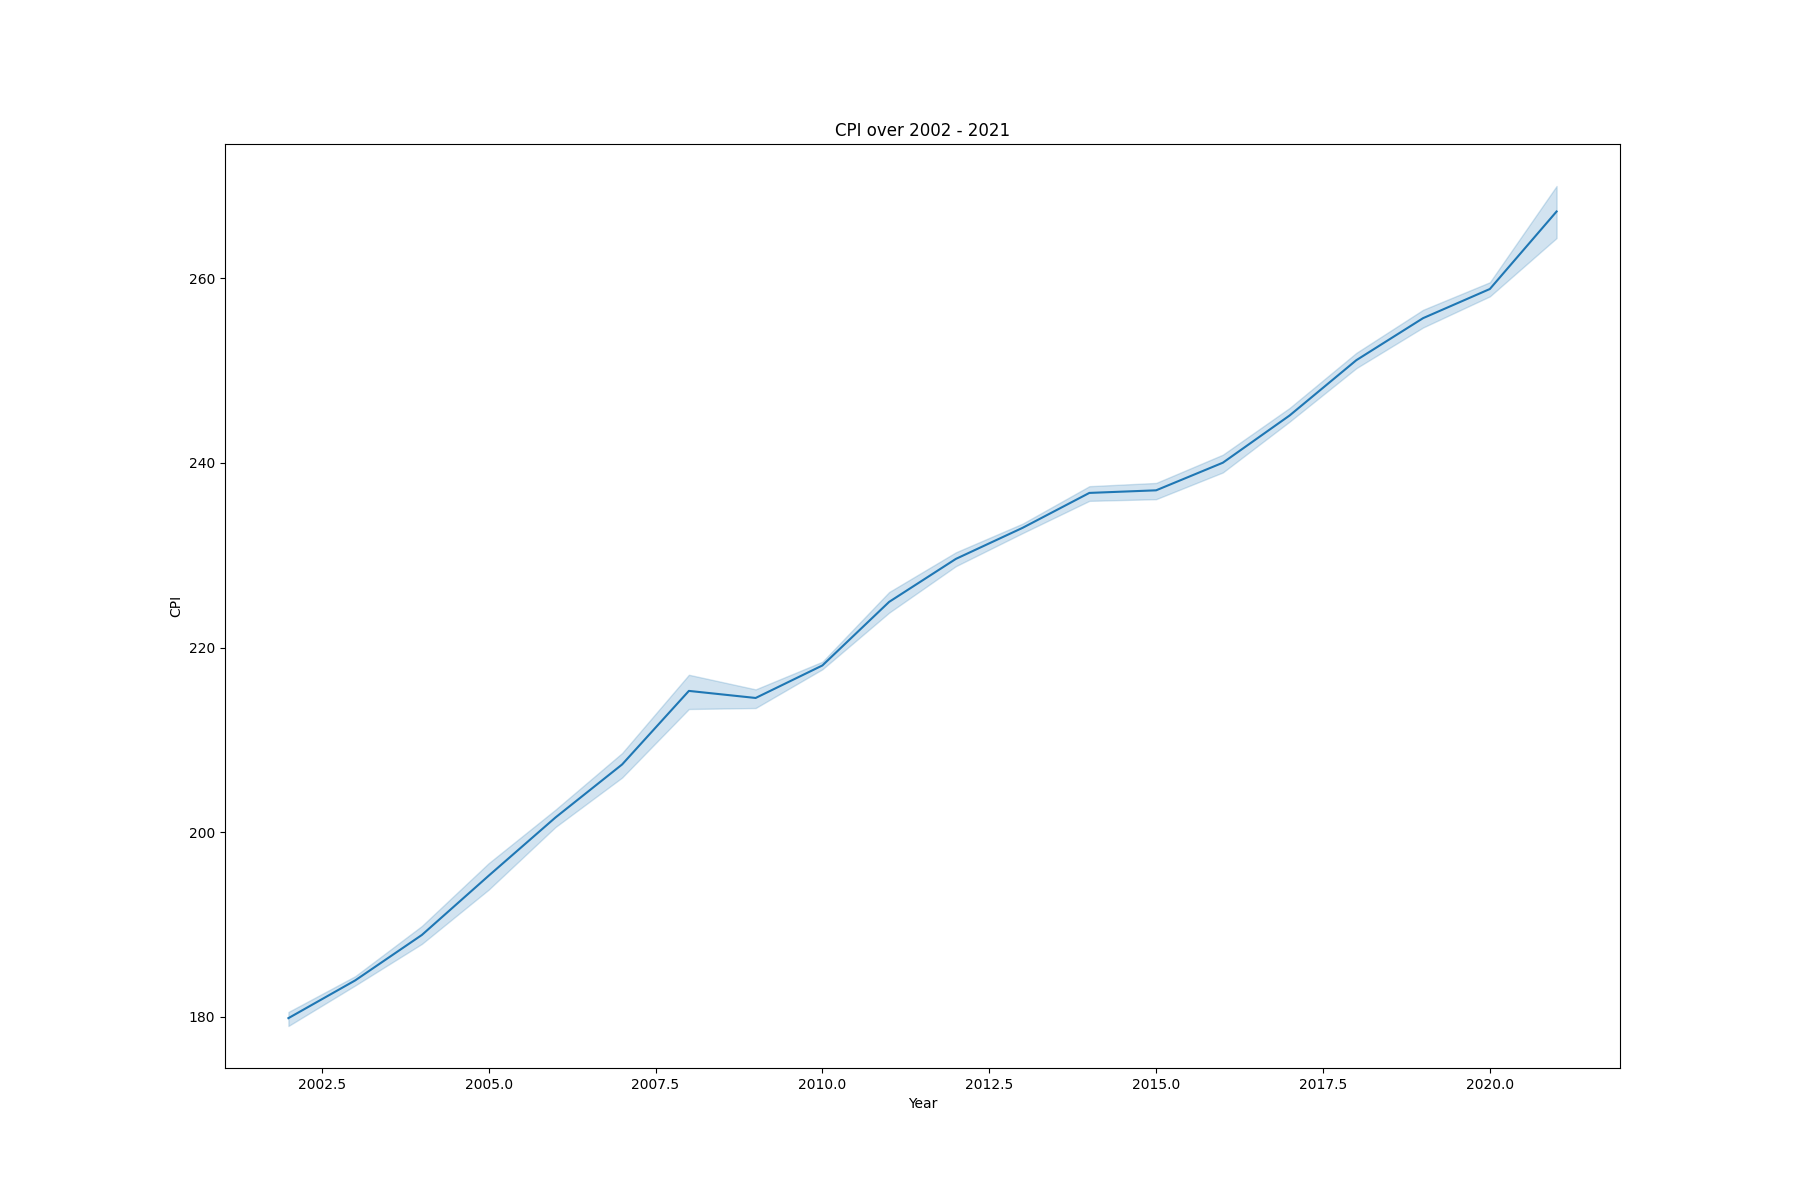
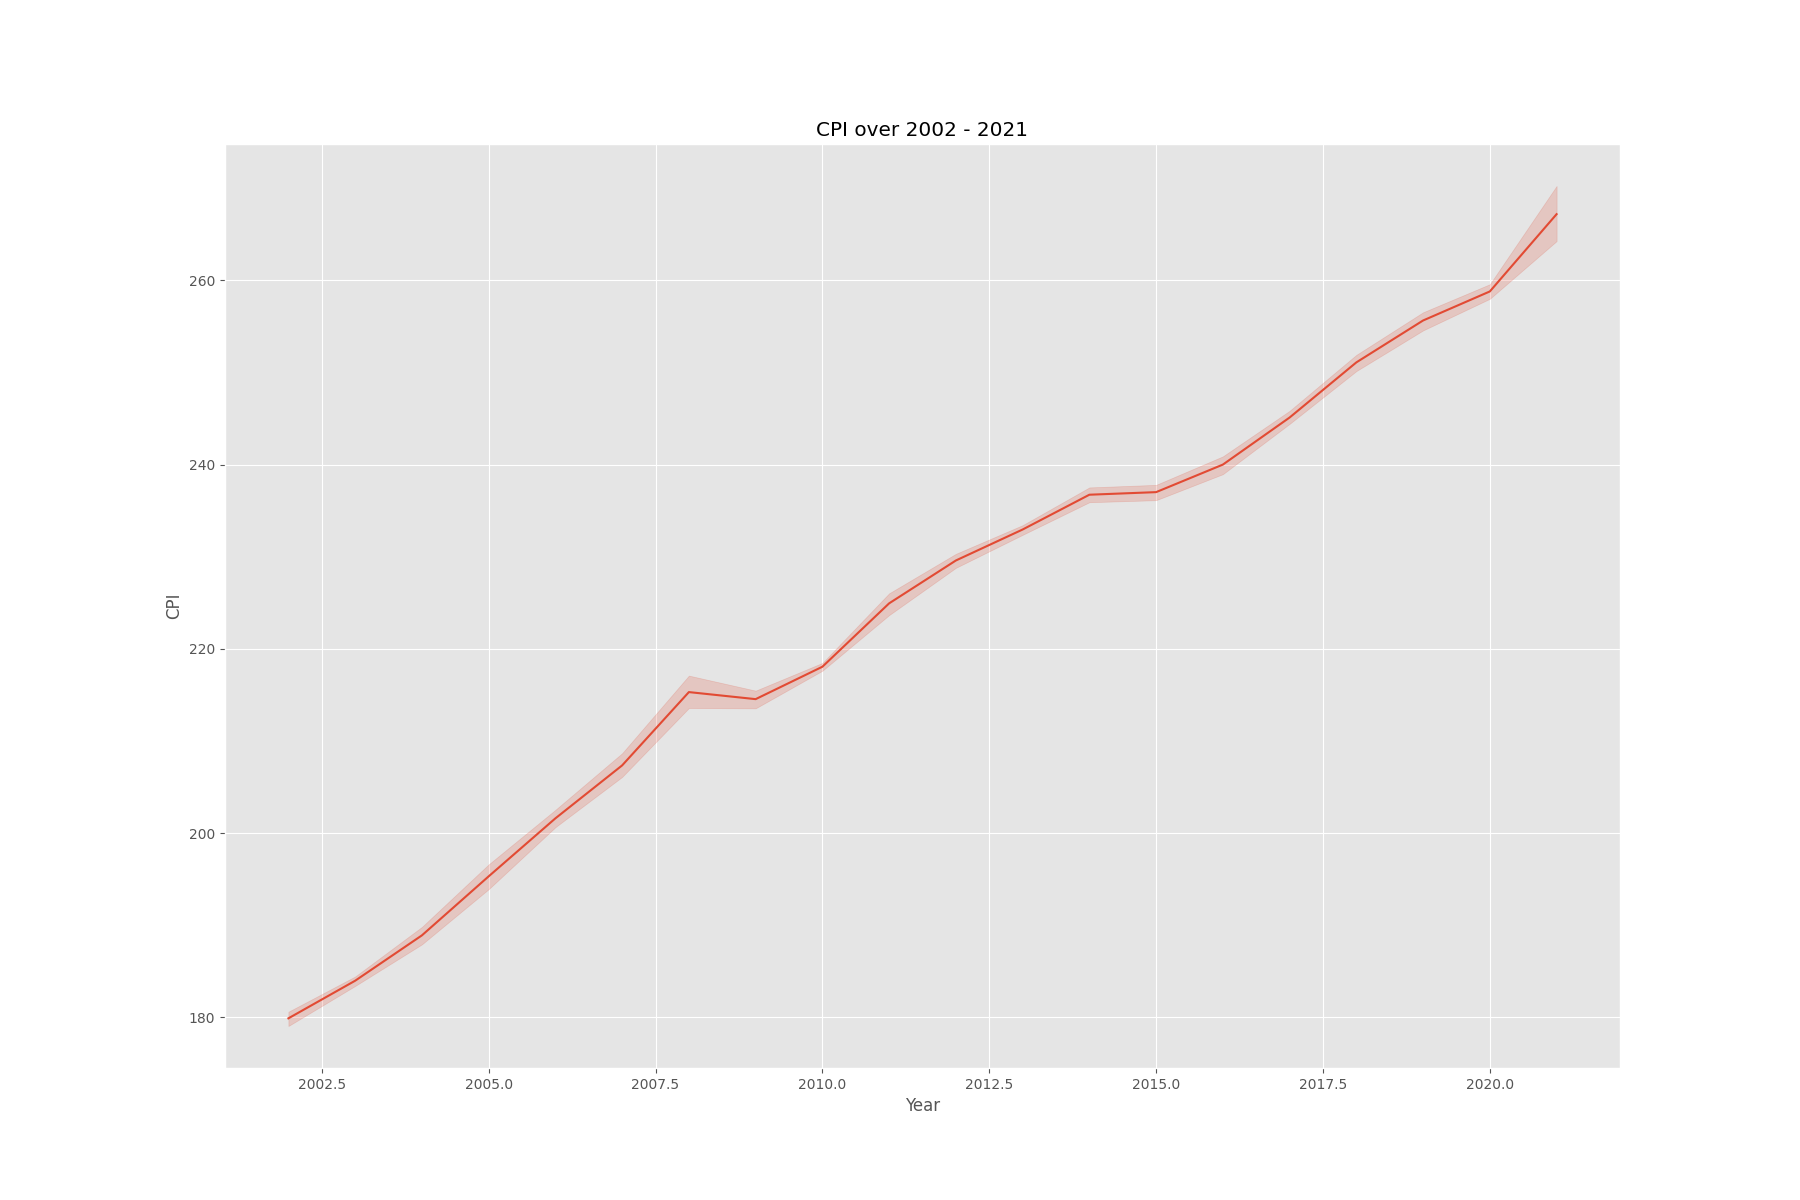
Edits

diff --git a/Code/data_exploration.py b/Code/data_exploration.py
@@ -10,7 +10,6 @@ plt.style.use("ggplot")
 CPI_states = data.iloc[:, 3:]
 
 correlations = CPI_states.corr() #Compute correlations
-print(correlations['CPI'])
 
 #The top 10 states are Alaska, Wyoming, South Dakota, Louisiana, Vermont, the District of Columbia, Oklahoma, Iowa, Hawaii
 
@@ -51,12 +50,12 @@ plt.title("Lowest 10 State Prices on Zillow")
 plt.savefig("Visuals/Bottom_10_States_ZVHI.png")
 plt.show()
 
-# plt.clf()
-# fig = plt.figure(figsize = (18, 12))
-# sns.lineplot(data = data, x = "Year", y = "ZHVI")
-# plt.title("Zillow House Evaluations Across 20 Years")
-# plt.savefig("Visuals/Total_House_Prices.png")
-# plt.show()
+plt.clf()
+fig = plt.figure(figsize = (18, 12))
+sns.lineplot(data = data, x = "Year", y = "ZHVI")
+plt.title("Zillow House Evaluations Across 20 Years")
+plt.savefig("Visuals/Total_House_Prices.png")
+plt.show()
 
 #Calculate minimum, maximum, standard deviation and % increase
 minimums = []

diff --git a/Code/CPI_visual.py b/Code/CPI_visual.py
@@ -4,6 +4,8 @@ import matplotlib.pyplot as plt
 
 data = pd.read_csv("data/clean_CPI.csv")
 
+plt.style.use("ggplot")
+
 restricted_data = data[(data['Year'] >= 2002) & (data['Year'] <= 2021)].reset_index(drop = True)
 
 fig = plt.figure(figsize = (18, 12))
